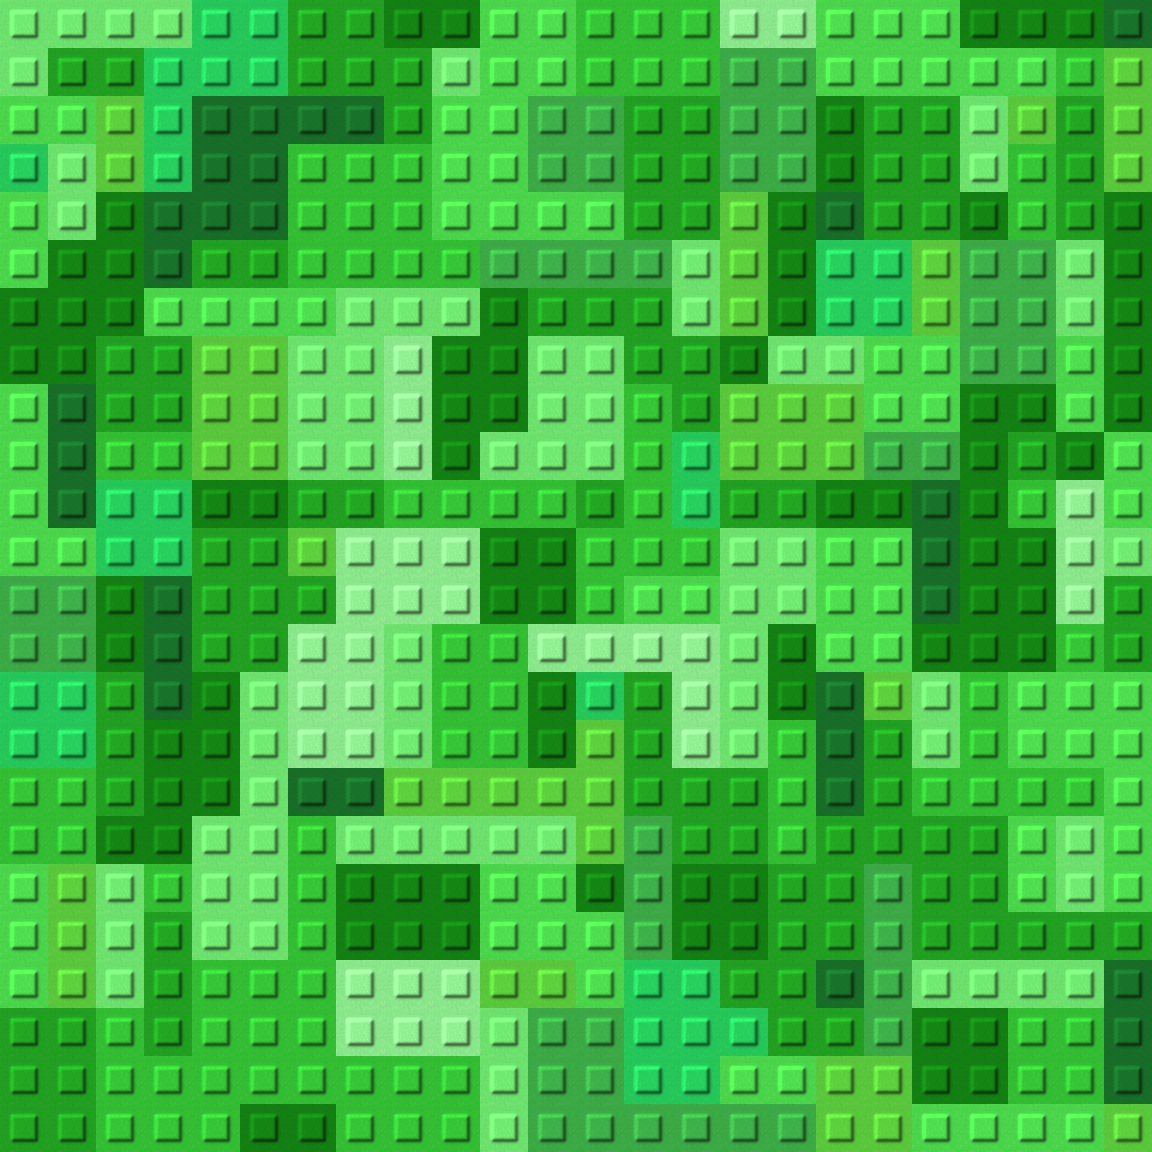
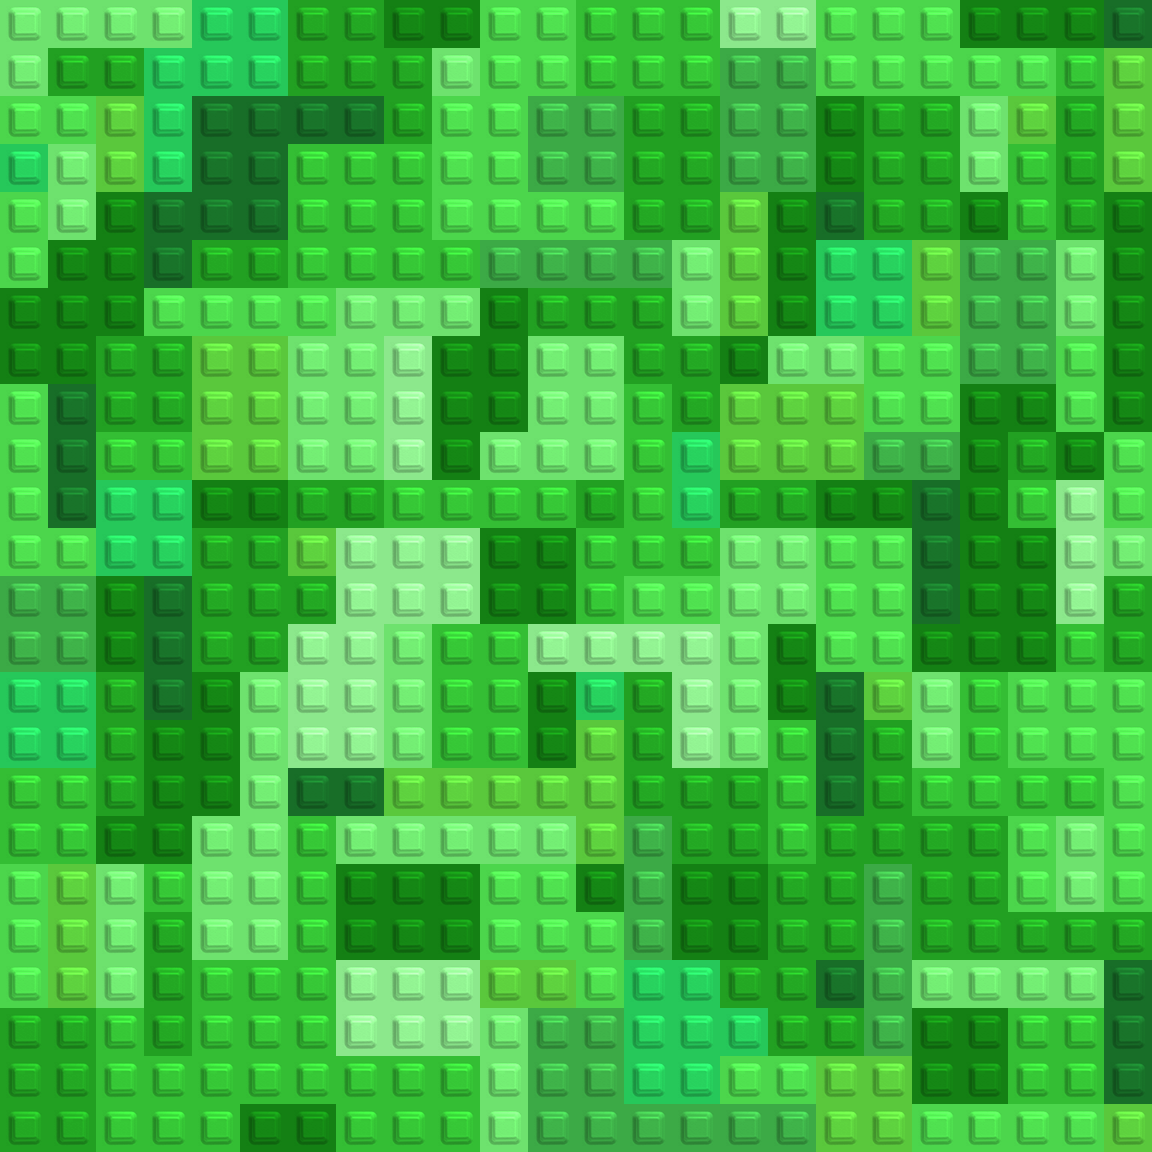
Fond : studs reproduits à partir du stud Roblox fourni, sans grain
Claude-Session: https://claude.ai/code/session_01Y5bpNK3Rj9sQUBARXb72RX

Changed region(s): [[0.0, 0.0, 1.0, 1.0]]

diff --git a/nature.css b/nature.css
@@ -1,6 +1,6 @@
 /* ===== Thème verdure (v2) ===== */
 html,body{overflow-x:hidden}
-body.figma-home,body:not(.figma-home){background:#2e9e3e url("assets/nature-bricks.png?v=5") 0 0/1152px 1152px repeat fixed}
+body.figma-home,body:not(.figma-home){background:#2e9e3e url("assets/nature-bricks.png?v=6") 0 0/1152px 1152px repeat fixed}
 body.figma-home:before{background:radial-gradient(ellipse at center,transparent 45%,rgba(6,40,14,.35))}
 body:not(.figma-home):before{content:"";position:fixed;inset:0;background:radial-gradient(ellipse at center,transparent 45%,rgba(6,40,14,.35));pointer-events:none;z-index:0}
 

diff --git a/index.html b/index.html
@@ -6,7 +6,7 @@
   <meta name="description" content="IY1U7 — Roblox stud builder portfolio">
   <title>IY1U7 — Roblox Portfolio</title>
   <link rel="stylesheet" href="styles.css?v=20261028-1">
-  <link rel="stylesheet" href="nature.css?v=20261029-3">
+  <link rel="stylesheet" href="nature.css?v=20261029-4">
   <script src="translation.js?v=20261028-1" defer></script>
   <script src="script.js?v=20261028-1" defer></script>
   <script src="nature.js?v=20261028-1" defer></script>

diff --git a/contribution.html b/contribution.html
@@ -9,7 +9,7 @@
   <meta name="description" content="IY1U7 Roblox contributions">
   <title>Contribution — Roblox Portfolio</title>
   <link rel="stylesheet" href="styles.css?v=20261028-1">
-  <link rel="stylesheet" href="nature.css?v=20261029-3">
+  <link rel="stylesheet" href="nature.css?v=20261029-4">
   <script src="translation.js?v=20261028-1" defer></script>
   <script src="script.js?v=20261028-1" defer></script>
   <script src="nature.js?v=20261028-1" defer></script>

diff --git a/build.html b/build.html
@@ -9,7 +9,7 @@
   <meta name="description" content="IY1U7 Roblox builds and assets">
   <title>Build — Roblox Portfolio</title>
   <link rel="stylesheet" href="styles.css?v=20261028-1">
-  <link rel="stylesheet" href="nature.css?v=20261029-3">
+  <link rel="stylesheet" href="nature.css?v=20261029-4">
   <script src="translation.js?v=20261028-1" defer></script>
   <script src="script.js?v=20261028-1" defer></script>
   <script src="nature.js?v=20261028-1" defer></script>

diff --git a/socials.html b/socials.html
@@ -9,7 +9,7 @@
   <meta name="description" content="IY1U7 social links">
   <title>Socials — Roblox Portfolio</title>
   <link rel="stylesheet" href="styles.css?v=20261028-1">
-  <link rel="stylesheet" href="nature.css?v=20261029-3">
+  <link rel="stylesheet" href="nature.css?v=20261029-4">
   <script src="translation.js?v=20261028-1" defer></script>
   <script src="script.js?v=20261028-1" defer></script>
   <script src="nature.js?v=20261028-1" defer></script>
